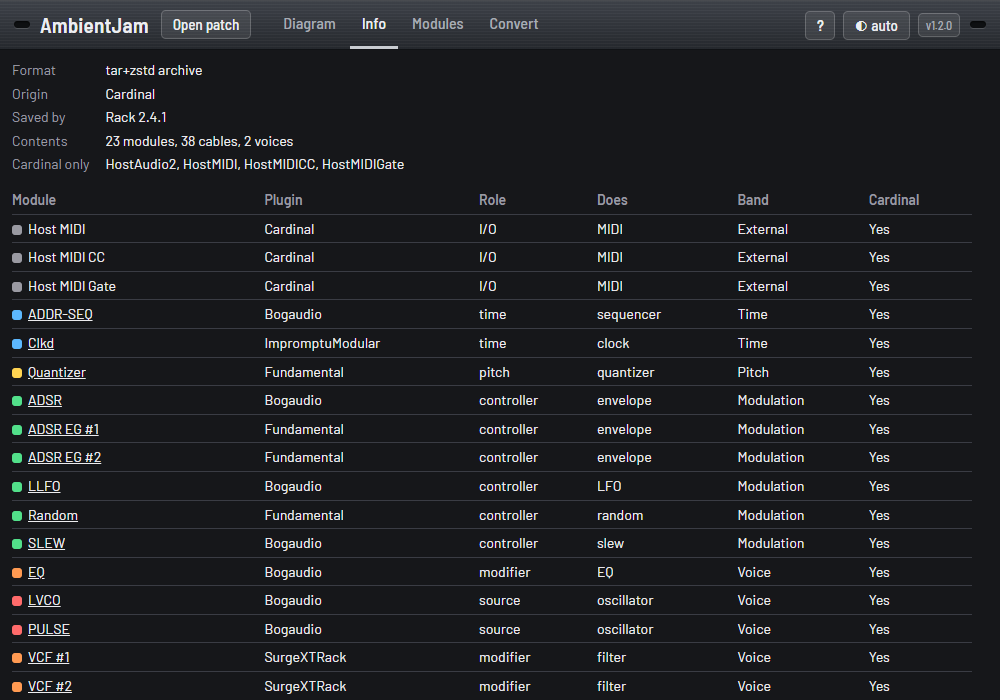
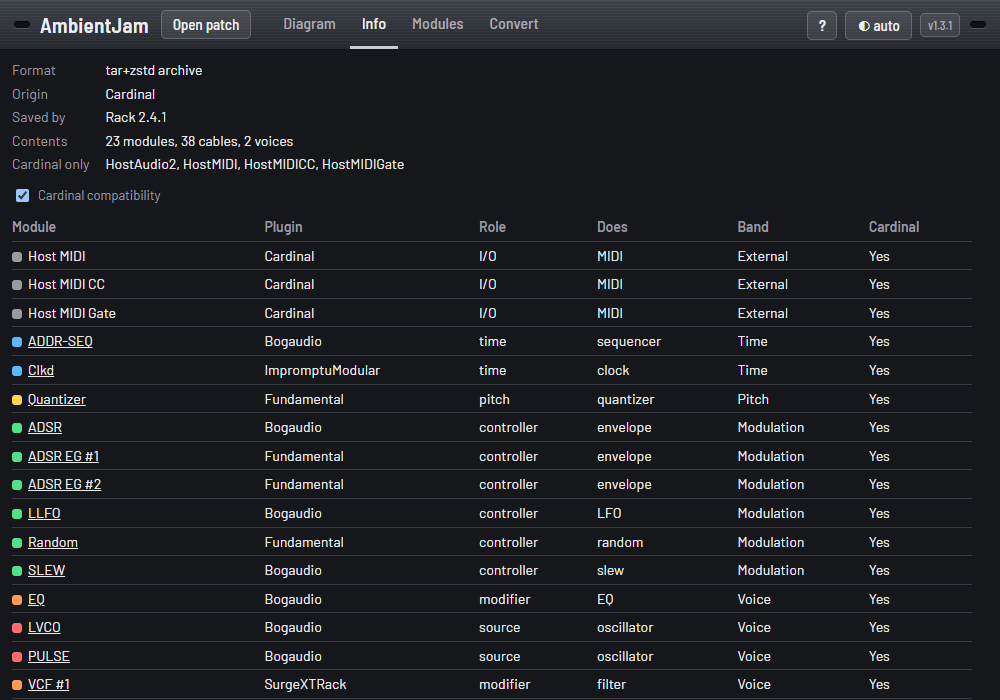
Add a Cardinal compatibility option, on by default
Turned off, the Info tab's Cardinal column and the module sheet's Cardinal
note go away, for Rack-only users; the browser remembers it.

Changed region(s): [[0.0, 0.27, 0.961, 1.0], [0.806, 0.03, 0.961, 0.06]]

diff --git a/src/ModularPatchTools.Web/wwwroot/css/app.css b/src/ModularPatchTools.Web/wwwroot/css/app.css
@@ -287,6 +287,7 @@ body:has(.vpd-root[data-theme="dark"]) { background: #16171a; color-scheme: dark
 .vpd-info dt { color: var(--vpd-muted); }
 .vpd-info dd { margin: 0; overflow-wrap: anywhere; }
 .vpd-info dd ul.loops { margin: 0; padding: 0; list-style: none; }
+.vpd-info .info-option { display: inline-flex; align-items: center; gap: 6px; margin: 0 0 8px; font-size: 13px; color: var(--vpd-muted); cursor: pointer; }
 .vpd-info table { border-collapse: collapse; font-size: 14px; width: 100%; max-width: 960px; }
 .vpd-info th, .vpd-info td { text-align: left; padding: 4px 10px 4px 0; border-bottom: 1px solid var(--vpd-line); }
 .vpd-info th { color: var(--vpd-muted); font-weight: 600; }

diff --git a/tests/ModularPatchTools.Tests/Web/StoredStateTests.cs b/tests/ModularPatchTools.Tests/Web/StoredStateTests.cs
@@ -9,7 +9,7 @@ public class StoredStateTests
 {
     /// <summary>Options compared by value (the record holds a set).</summary>
     private static string Fields(StoredState.Options o) =>
-        $"{string.Join(",", o.HiddenLayers.Order())}|{o.ShowIntents}|{o.PortTabs}|{o.FunctionNames}|{o.LibraryLinks}|{o.Monitors}";
+        $"{string.Join(",", o.HiddenLayers.Order())}|{o.ShowIntents}|{o.PortTabs}|{o.FunctionNames}|{o.LibraryLinks}|{o.Monitors}|{o.CardinalSupport}";
 
     [Fact]
     public void OptionsSurviveARoundTrip()
@@ -25,7 +25,17 @@ public class StoredStateTests
         StoredState.Options read = StoredState.ParseOptions("""{"HiddenLayers":["gate"],"ShowIntents":true,"PortTabs":false,"FunctionNames":false,"LibraryLinks":true,"Monitors":1}""");
 
         // Everything but the scope view, saved when "hidden" was the default: the scope boxes, the new default, apply.
-        Assert.Equal("gate|True|False|False|True|Modules", Fields(read));
+        Assert.Equal("gate|True|False|False|True|Modules|True", Fields(read));
+    }
+
+    [Fact]
+    public void CardinalCompatibilityShowsByDefaultAndCanBeTurnedOff()
+    {
+        // One of the reasons the tool exists: on unless the user turns it off, and kept off once they do.
+        Assert.True(StoredState.Options.Default.CardinalSupport);
+        Assert.True(StoredState.ParseOptions("""{"Version":2,"PortTabs":true}""").CardinalSupport);
+        StoredState.Options off = StoredState.Options.Default with { CardinalSupport = false };
+        Assert.False(StoredState.ParseOptions(StoredState.SerializeOptions(off)).CardinalSupport);
     }
 
     [Fact]

diff --git a/src/ModularPatchTools.Web/StoredState.cs b/src/ModularPatchTools.Web/StoredState.cs
@@ -21,6 +21,9 @@ public static class StoredState
     {
         // Scopes and displays drawn as boxes, next to what they watch.
         public static Options Default { get; } = new Options(new HashSet<string>(), false, true, false, true, MonitorView.Modules);
+
+        /// <summary>Whether Cardinal can load each module (Info tab, module sheet). On by default; Rack-only users may turn it off.</summary>
+        public bool CardinalSupport { get; init; } = true;
     }
 
     /// <summary>
@@ -53,7 +56,10 @@ public static class StoredState
             Flag(nameof(Options.PortTabs), Options.Default.PortTabs),
             Flag(nameof(Options.FunctionNames), Options.Default.FunctionNames),
             Flag(nameof(Options.LibraryLinks), Options.Default.LibraryLinks),
-            monitors);
+            monitors)
+        {
+            CardinalSupport = Flag(nameof(Options.CardinalSupport), Options.Default.CardinalSupport),
+        };
     }
 
     public static string SerializeOptions(Options options) => JsonSerializer.Serialize(new
@@ -65,6 +71,7 @@ public static class StoredState
         options.FunctionNames,
         options.LibraryLinks,
         options.Monitors,
+        options.CardinalSupport,
     });
 
     /// <summary>

diff --git a/README.md b/README.md
@@ -265,7 +265,7 @@ A few things worth knowing about this split:
 - modules no Cardinal build bundles (commercial plugins, plugins Cardinal never included);
 - modules only the [neilbgr edition of Cardinal](https://github.com/neilbgr/Cardinal) bundles (Aluminium, AmbientModules, newer versions of a few plugins): open the converted patch in that edition.
 
-The **Info** tab's *Cardinal* column says the same for each module: `Yes`, `Yes, as Cardinal Host MIDI` (Cardinal swaps it for its own module when loading), `neilbgr edition` or `No`; the details sheet of a selected module in the **Diagram** tab adds a note when official Cardinal can't load it. The list comes from `catalog/cardinal.json` (see [below](#port-catalog-and-roles)).
+The **Info** tab's *Cardinal* column says the same for each module: `Yes`, `Yes, as Cardinal Host MIDI` (Cardinal swaps it for its own module when loading), `neilbgr edition` or `No`; the details sheet of a selected module in the **Diagram** tab adds a note when official Cardinal can't load it. The list comes from `catalog/cardinal.json` (see [below](#port-catalog-and-roles)). Only interested in Rack? Untick **Cardinal compatibility** (in the Info tab, or the Diagram tab's Options): the column and the notes go away, and the browser remembers it. The **Convert** tab still warns when converting to Cardinal.
 
 **What it can't do:** pick a MIDI device for you. Cardinal receives MIDI directly from its host DAW, with no device selection at all, so there's nothing to carry over — after converting to Rack you'll need to open the new `MIDI-CV`/`MIDI-CC-CV`/`MIDI-Gate` modules and choose a MIDI input device by hand (the channel, however, is already set correctly).
 
@@ -290,7 +290,7 @@ Open http://localhost:5016 and drop a `.vcv` file (or add `?sample=AmbientJam` t
 
 - unfold/fold boxes, or use **Overview** / **Unfold all**;
 - the numbered layer chips, in their cable color: a hidden layer's chip shows every layer up to it, a shown one's hides just that layer;
-- **Options**: intents on every cable, port names on the box edges, function names in the titles, library links, and how to show scopes and displays (offered when the patch has some). These options, the layers shown and the theme are remembered by your browser for the next visit and the next patch;
+- **Options**: intents on every cable, port names on the box edges, function names in the titles, Cardinal compatibility (on by default), library links, and how to show scopes and displays (offered when the patch has some). These options, the layers shown and the theme are remembered by your browser for the next visit and the next patch;
 - drag the background to pan, Ctrl + wheel to zoom;
 - hover a box to follow its cables, click a module for its details (its real panel from the VCV Library, ports, links, and a note when official Cardinal can't load it) in a sheet at the bottom, click the panel to see it full height, click a cable to edit its intent;
 - **Export** `.html`, `.svg`, `.dot`, `.mmd` or `.json`.

diff --git a/CHANGELOG.md b/CHANGELOG.md
@@ -10,6 +10,8 @@ made; on release, the section is renamed to the version and becomes the GitHub r
   from its lowest output just under its box into its lowest input, crossing nothing; such modules count as feedback
   loops (folded boxes hint at them, `inspect` lists them).
 - The Info tab lists the patch's feedback loops.
+- A **Cardinal compatibility** option, on by default, in the Info tab and the Diagram tab's Options: turned off, the
+  Info tab's Cardinal column and the module sheet's Cardinal note go away, for Rack-only users. Remembered by the browser.
 
 ### Changed
 - Feedback cables are drawn dash-dot (scope links keep their plain dashes) instead of carrying a "↺ feedback" tag; the
